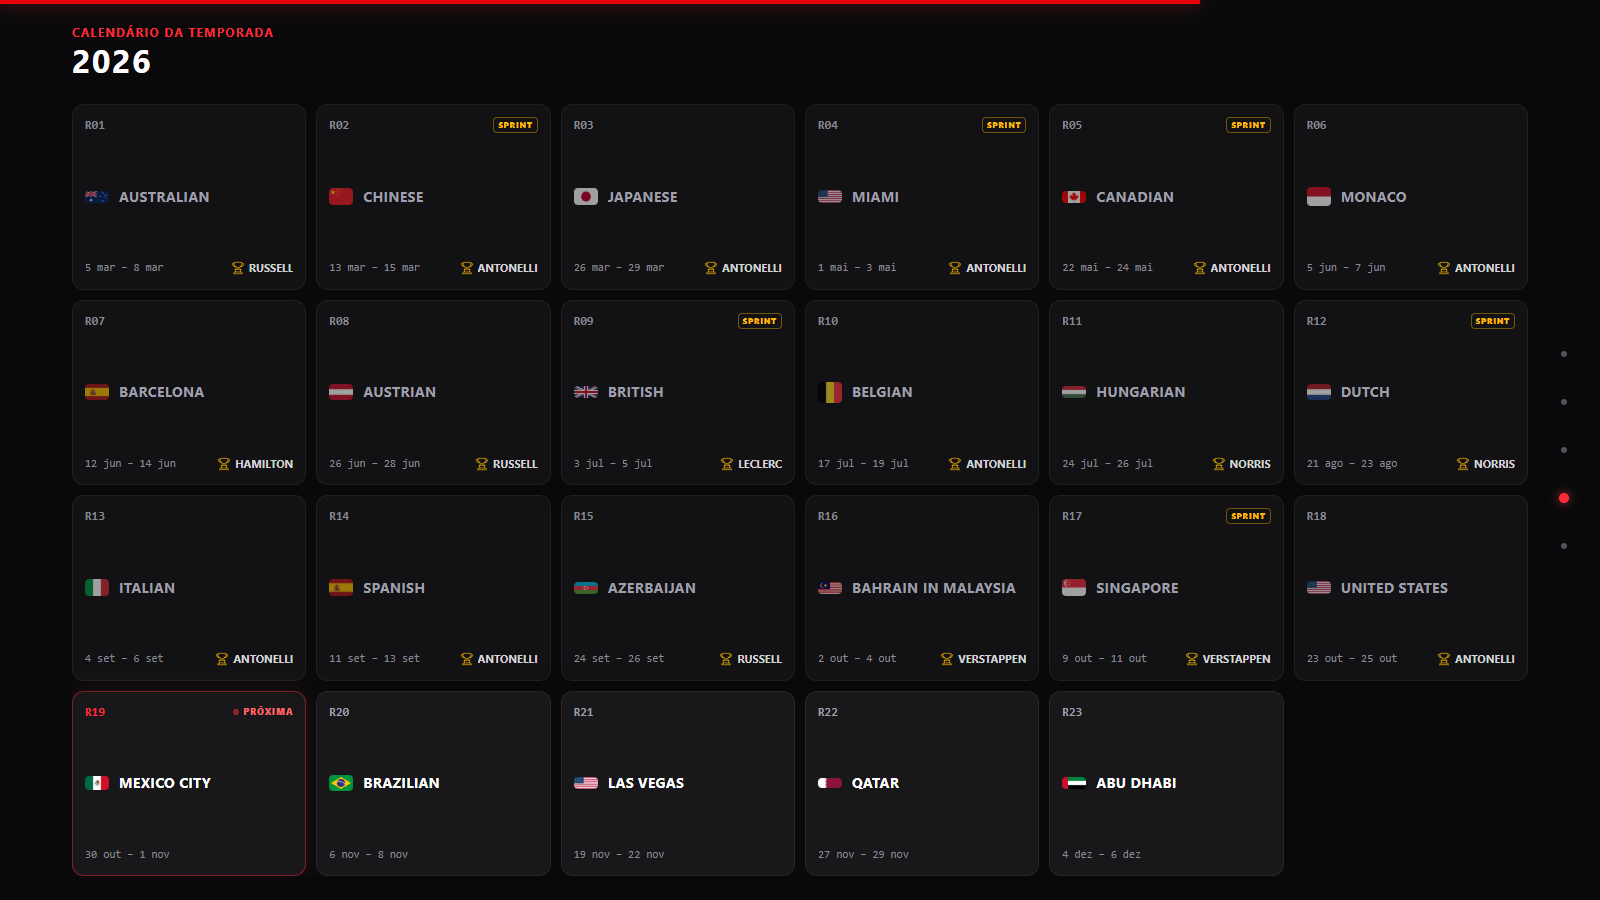
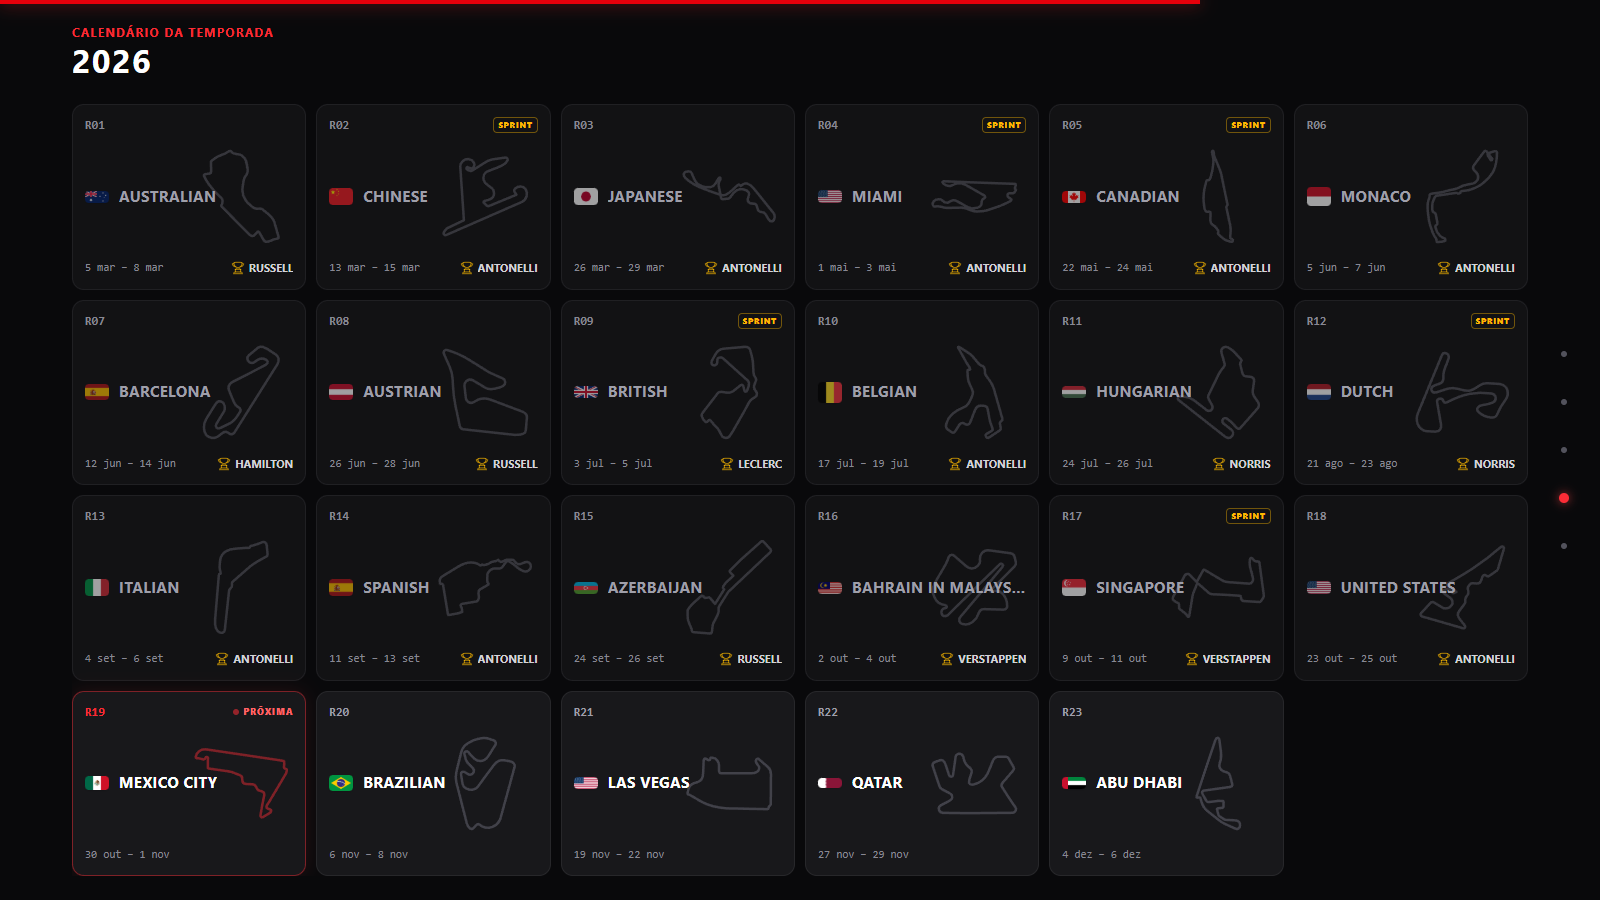
docs: atualiza o README e as imagens com o novo layout do computador

diff --git a/README.md b/README.md
@@ -45,7 +45,7 @@ O ponto de entrada do usuário. Traz informações críticas sobre o próximo ev
 ### 2. Destaques (Highlights)
 - **Pódio do último GP**, com pole, volta mais rápida e o piloto que mais ganhou posições.
 - **Disputa pelo título:** calcula, com o calendário restante, quem ainda tem chance matemática de ser campeão (pilotos e equipes) e avisa quando o título está decidido.
-- **A temporada em números:** vencedores diferentes, abandonos e quem lidera em vitórias, poles, pódios e voltas mais rápidas.
+- **A temporada em números:** vencedores diferentes, abandonos e quem lidera em vitórias, poles, pódios e voltas mais rápidas — em telas grandes, os 3 primeiros de cada categoria, com barras.
 - No computador os três cards ficam lado a lado; no celular viram um carrossel.
 
 <div align="center">
@@ -55,7 +55,8 @@ O ponto de entrada do usuário. Traz informações críticas sobre o próximo ev
 ### 3. Classificação Mundial (Standings)
 Uma visão completa e dividida da tabela de pontos atualizada, renderizada com animações suaves de fade-in.
 - **Pilotos & Equipes:** Tabelas completas com cálculo de diferenças de pontos, logotipos oficiais e bandeiras.
-- Em telas largas a lista se divide em duas colunas (1º–11º | 12º–22º) e cabe inteira na tela, com uma barra mostrando os pontos de cada um em relação ao líder.
+- Em telas largas a lista se divide em duas colunas (1º–11º | 12º–22º) e ocupa a tela inteira, com uma barra mostrando os pontos de cada um em relação ao líder.
+- Em telas altas, as **equipes** ficam numa coluna só, com os pilotos de cada uma e os pontos de cada piloto.
 - **Evolução dos pontos:** gráfico interativo rodada a rodada dos 6 primeiros (pilotos ou equipes).
 - **Modal da equipe:** números da equipe na história e o **duelo interno** entre os companheiros (qualificação, corrida e pontos).
 - **Wikipédia Dinâmica (Modal):** Ao clicar em um piloto, um modal interativo é aberto. Ele consome a API oficial da Wikipédia (buscando em `pt` ou `en` dinamicamente) para extrair foto e biografia (a partir do link exato do piloto informado pela própria API), além dos números da carreira (GPs, vitórias, pódios e poles).
@@ -69,7 +70,7 @@ Uma visão completa e dividida da tabela de pontos atualizada, renderizada com a
 </div>
 
 ### 4. Calendário
-- A temporada inteira em uma grade de cards (no celular, uma lista que já abre na próxima corrida), com datas, vencedor de cada GP já disputado e selo de fim de semana Sprint.
+- A temporada inteira em uma grade de cards (no celular, uma lista que já abre na próxima corrida), com o desenho de cada pista, datas, vencedor de cada GP já disputado e selo de fim de semana Sprint.
 - Clicar numa etapa abre a programação completa, com os horários no fuso de quem está vendo.
 
 <div align="center">
